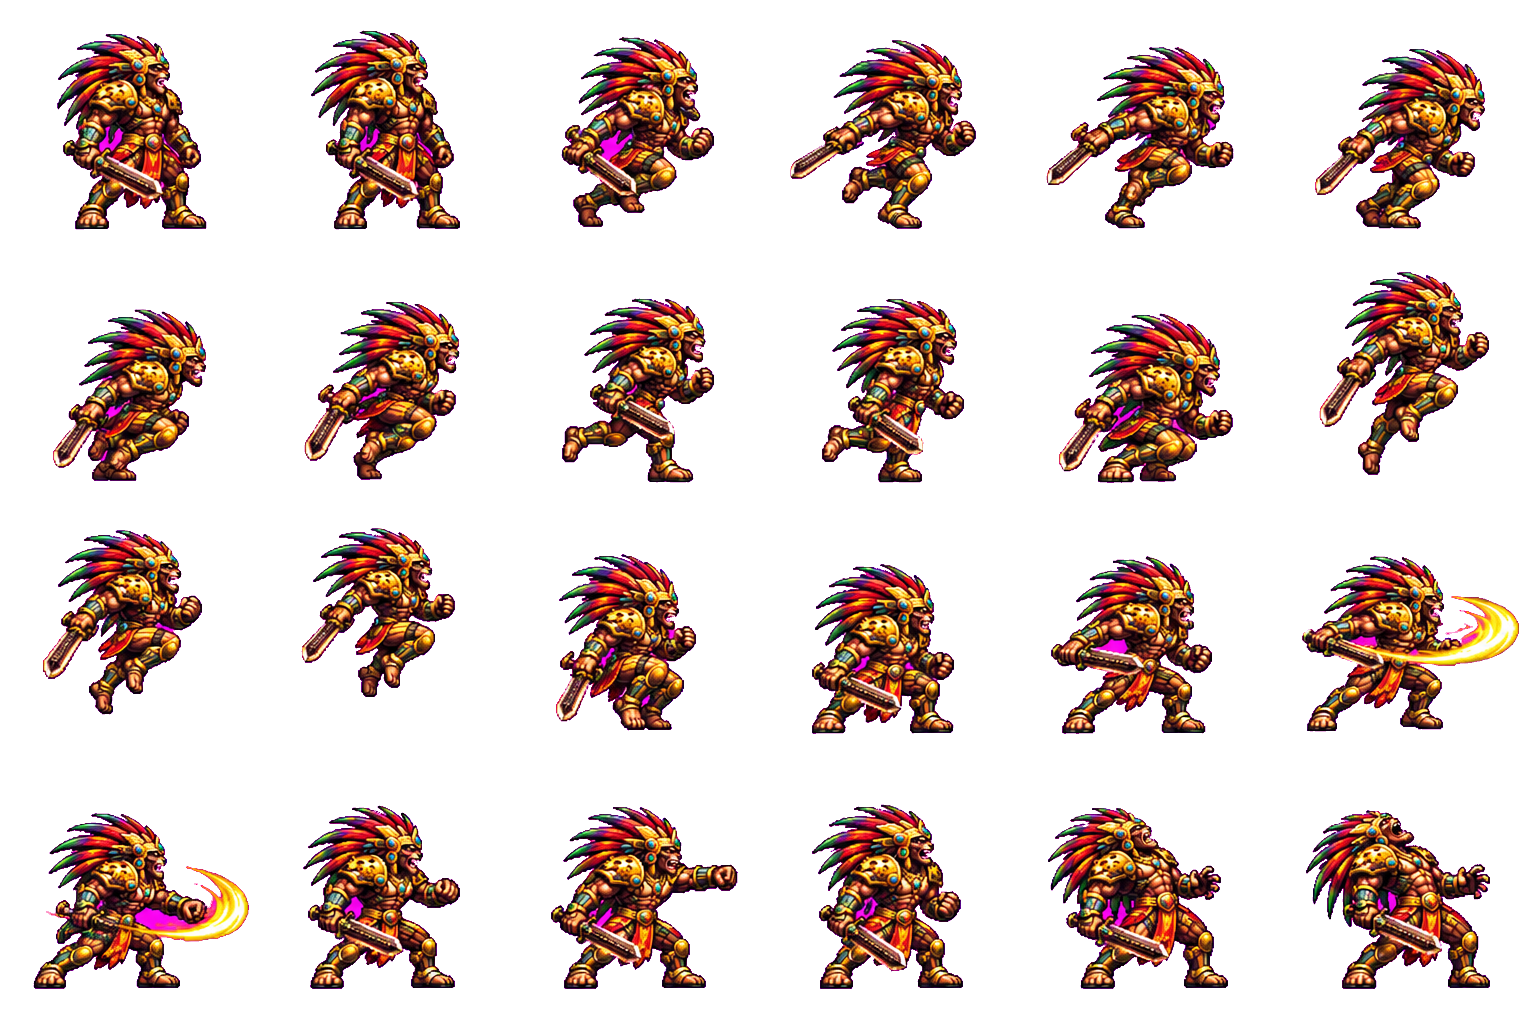
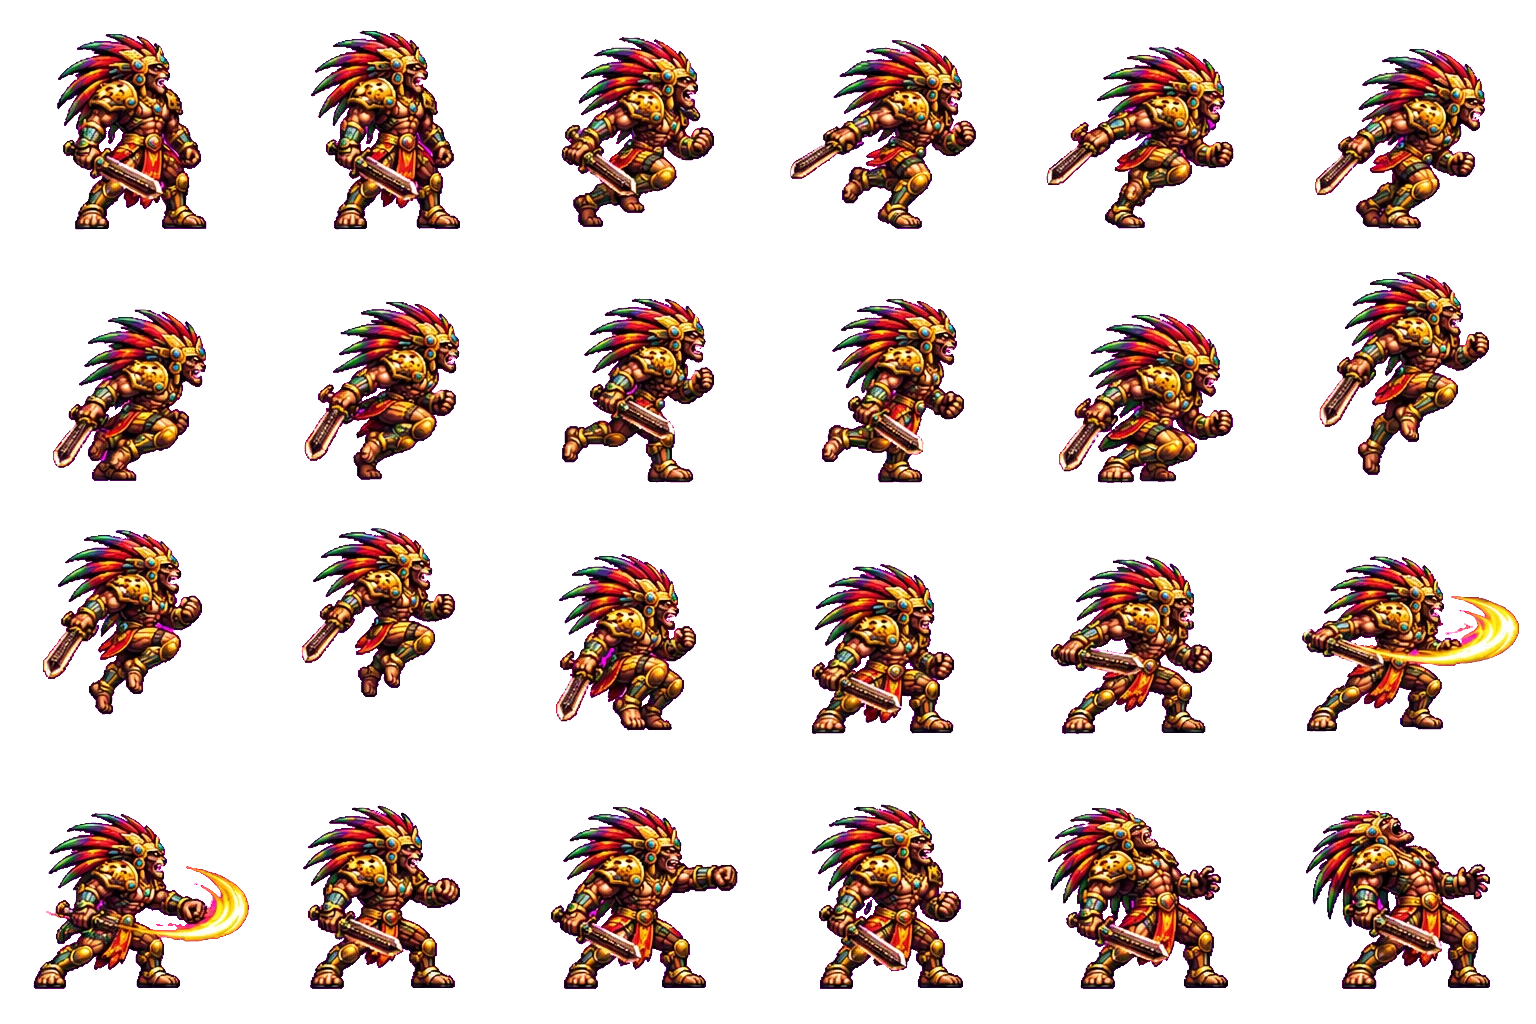
Heroes and enemies: remove leftover magenta, fix hurt and death poses
- Itzá and Balam 24-frame sheets: removed solid blobs of leftover background
  magenta (hot-pink patches between Itzá's legs, flat magenta pools at Balam's
  feet); Balam's real purple cape and spirit blasts are kept
- Musketeers (runner/rifle/wallman) flinch with their stagger pose instead of
  the kneeling-aim pose; crossbowmen recoil instead of standing still when hit
- Runners and the Stage 4 jaguar warrior play every frame of their death fall

Claude-Session: https://claude.ai/code/session_01T4Ncn1ihgTr1NAgQFywcZ6

diff --git a/game.js b/game.js
@@ -1101,13 +1101,13 @@ const BOSS_FRAMES={boss2:{idle:[0,1],walk:[2,3,4,5],wind:6,atk:[7,8],hurt:10,die
  boss6:{idle:[0,1,2,3],walk:[4,5,6,7],wind:8,atk:[9,10],special:11,hurt:12,die:[13,14,15]}};
 function drawEnemy(e){ctx.save();if(!e.dead&&!e.bossSprite&&e.onGround&&Math.abs(e.vx||0)>22&&e.type!=='boulder'&&e.type!=='capsule')ctx.translate(0,Math.sin(e.gait*Math.PI*.5)*1.25);if(e.hurt>0&&!e.dead)ctx.translate((e.hitSide||1)*Math.sin((.22-e.hurt)*38)*3,0);if(e.garrison&&!e.dead){R(e.x-26,e.y-128,52,5,'#2a120c');R(e.x-26,e.y-128,52*e.hp/e.max,5,'#ff6a4a')}const fl=e.hurt>0;const a=e.dead?clamp((e.bossSprite?3.2:1.4)-e.deadT,0,1):1;if(a<=0){ctx.restore();return}sprFlash=fl&&!e.dead;if(e.bossSprite){const M=BOSS_FRAMES[e.bossSprite],cyc=(l,r)=>l[Math.floor(r)%l.length],atk=['pound','slash','thrust','beam','charge','dash'].includes(e.state);const f=e.dead?M.die[Math.min(M.die.length-1,Math.floor(e.deadT*6))]:e.hurt>0?M.hurt:e.specialPhase==='wind'?M.wind:e.specialT>0?(M.special??cyc(M.atk,e.anim*8)):e.state==='pound'&&M.pound!=null?M.pound:atk?cyc(M.atk,e.anim*8):['poundW','wind','windDash','chargeW','beamW'].includes(e.state)||e.phase==='beamW'?M.wind:Math.abs(e.vx)>5?cyc(M.walk,e.gait):cyc(M.idle,e.anim*2);spr(e.bossSprite,f,e.x+(fl?-e.dir*Math.min(4,e.hurt*22):0),e.y,stageNum===3?205:stageNum===5?194:175,e.dir<0,a);if(fl&&!e.dead){ctx.save();ctx.globalCompositeOperation='lighter';ctx.globalAlpha=.45;circ(e.x,e.y-95,45,'#ffcf7a');ctx.restore()}if(!e.dead){R(e.x-65,e.y-205,130,8,'#2a120c');R(e.x-64,e.y-204,128*Math.max(0,e.hp)/e.max,6,'#ff6a4a')}drawEnemyTell(e);sprFlash=false;ctx.restore();return}
  switch(e.type){
- case'runner':{const f=e.dead?14:e.hurt>0?12:!e.onGround?13:[2,3,4,5][Math.floor(e.gait)%4];spr('soldier',f,e.x,e.y,112,e.dir<0,a);break}
- case'rifle':case'wallman':{let f=e.dead?(e.deadT<.4?14:15):e.hurt>0?12:e.fireT>0?7:e.aimT>0?6:e.walking?[2,3,4,5][Math.floor(e.gait)%4]:(e.cd<.6?6:Math.floor(e.anim*2)%2);spr('soldier',f,e.x,e.y,112,e.dir<0,a);break}
+ case'runner':{const f=e.dead?(e.deadT<.4?14:15):e.hurt>0?10:!e.onGround?13:[2,3,4,5][Math.floor(e.gait)%4];spr('soldier',f,e.x,e.y,112,e.dir<0,a);break}
+ case'rifle':case'wallman':{let f=e.dead?(e.deadT<.4?14:15):e.hurt>0?10:e.fireT>0?7:e.aimT>0?6:e.walking?[2,3,4,5][Math.floor(e.gait)%4]:(e.cd<.6?6:Math.floor(e.anim*2)%2);spr('soldier',f,e.x,e.y,112,e.dir<0,a);break}
  case'sniper':{let f=e.dead?(e.deadT<.4?14:15):12;spr('soldier',f,e.x,e.y,112,e.dir<0,a);if(e.fireT>0){circ(e.x+e.dir*46,e.y-46,8,'#ffd77a')}break}
- case'cross':{let f=e.dead?(e.deadT<.4?14:15):e.hurt>0?12:e.fireT>0?10:e.aimT>0?8:Math.floor(e.anim*2)%2;spr('crossbow',f,e.x,e.y,112,e.dir<0,a);break}
+ case'cross':{let f=e.dead?(e.deadT<.4?14:15):e.hurt>0?14:e.fireT>0?10:e.aimT>0?8:Math.floor(e.anim*2)%2;spr('crossbow',f,e.x,e.y,112,e.dir<0,a);break}
  case'panther':{let f=e.dead?(e.deadT<.3?13:15):e.hurt>0?12:e.state==='leap'?7:e.state==='run'?[4,5,6,5][Math.floor(e.gait)%4]:Math.floor(e.anim*3)%4;spr('panther',f,e.x,e.y,108,e.dir<0,a);break}
  case'eagle':{let f=e.dead?13:e.state==='dive'?7:[4,5,9,10][Math.floor(e.anim*9)%4];spr('eagle',f,e.x,e.y+50,104,true,a);break}
- case'jaguar':{let f=0;const s=e.state;if(e.dead)f=e.deadT<.5?13:15;else if(s==='roar')f=12;else if(s==='slash')f=e.st<.3?9:8;else if(s==='wave')f=e.st<.3?10:8;else if(s==='dash')f=11;else if(Math.abs(e.vx)>1)f=[4,5,6,7][Math.floor(e.gait)%4];else f=Math.floor(e.anim*2)%2;
+ case'jaguar':{let f=0;const s=e.state;if(e.dead)f=e.deadT<.25?13:e.deadT<.55?14:15;else if(s==='roar')f=12;else if(s==='slash')f=e.st<.3?9:8;else if(s==='wave')f=e.st<.3?10:8;else if(s==='dash')f=11;else if(Math.abs(e.vx)>1)f=[4,5,6,7][Math.floor(e.gait)%4];else f=Math.floor(e.anim*2)%2;
   spr('jaguar',f,e.x,e.y,136,e.dir<0,a);if(!e.dead){R(e.x-40,e.y-150,80,7,'#2a120c');R(e.x-39,e.y-149,78*e.hp/e.max,5,'#ffb347')}break}
  case'cannon':case'bcannon':drawCannon(e);break;
  case'pike':{let f;const s=e.state;if(e.dead)f=e.deadT<.3?12:15;else if(e.blockT>0)f=11;else if(s==='wind'||s==='windDash')f=8;else if(s==='thrust')f=e.st>.2?9:10;else if(s==='dash')f=14;else if(Math.abs(e.vx)>1)f=[4,5,6,7][Math.floor(e.gait)%4];else f=Math.floor(e.anim*2)%4;spr('pike',f,e.x,e.y,118,e.dir<0,a);break}
